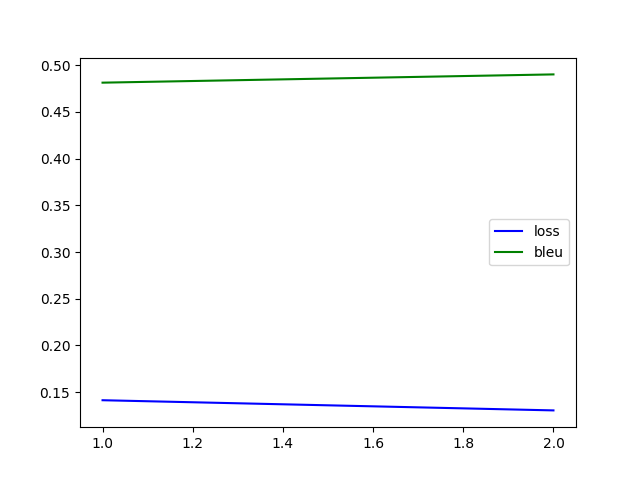
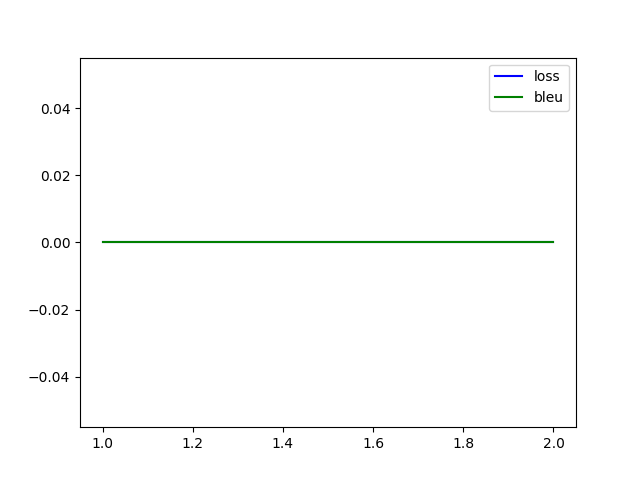
plot

diff --git a/hw2/2-1/util.py b/hw2/2-1/util.py
@@ -110,7 +110,7 @@ class Datamanager:
         encoder_optimizer.step()
         decoder_optimizer.step()
         return float(loss)/ (self.max_length)
-    def trainIters(self,encoder, decoder, name, test_name, n_epochs, write_file , learning_rate=0.001, print_every=2):
+    def trainIters(self,encoder, decoder, name, test_name, n_epochs, write_file, plot_file, learning_rate=0.001, print_every=2):
         encoder_optimizer = optim.Adam(encoder.parameters(), lr=learning_rate)
         decoder_optimizer = optim.Adam(decoder.parameters(), lr=learning_rate)
         
@@ -151,7 +151,7 @@ class Datamanager:
             #record=self.evaluate(encoder,decoder,test_name, write_file, record, n=5)
             self.evaluate(encoder,decoder,test_name, write_file, record, n=5)
             loss_bleu_list.append([loss_total/ batch_index, bleu_average])
-        return loss_bleu_list
+            self.plot(loss_bleu_list, plot_file)
     def evaluate(self,encoder, decoder, name, write_file=None, record=0, n=5):
         encoder.eval()
         decoder.eval()
@@ -357,7 +357,7 @@ class Datamanager:
         return sum(p.numel() for p in model.parameters() if p.requires_grad)
     def plot(self, record, path):
         x=np.array(range(1,len(record)+1))
-        y=np.array(record)
+        y=np.array(record,dtype=np.uint8)
         plt.figure()
         plt.plot(x,y[:,0],'b',label='loss')
         plt.plot(x,y[:,1],'g',label='bleu')

diff --git a/hw2/2-1/main.py b/hw2/2-1/main.py
@@ -3,14 +3,15 @@ from util import Datamanager, EncoderRNN, AttnDecoderRNN
 import torch
 assert torch and EncoderRNN and AttnDecoderRNN
 
-EPOCHS=2
-BATCH_SIZE= 512
-HIDDEN_LAYER= 128
-LAYER_N=1
-HOP_N=1
+EPOCHS=50
+BATCH_SIZE= 128
+HIDDEN_LAYER= 1024
+LAYER_N=3
+HOP_N=3
 DROPOUT=0.5
 MIN_COUNT = 3
-OUTPUT_PATH = './record.png'
+PRINT_OUTPUT_PATH = './record.png'
+WRITE_OUTPUT_PATH = './data/output.txt'
 
 
 dm = Datamanager(MIN_COUNT)
@@ -24,8 +25,7 @@ print("Decoder Parameter: {}".format(dm.count_parameters(decoder)))
 #torch.save(encoder,'encoder.pt')
 #torch.save(decoder,'decoder.pt')
 
-record=dm.trainIters(encoder, decoder, 'train', 'test', EPOCHS, 'data/output.txt')
+dm.trainIters(encoder, decoder, 'train', 'test', EPOCHS, WRITE_OUTPUT_PATH, PRINT_OUTPUT_PATH)
 torch.save(encoder,'encoder.pt')
 torch.save(decoder,'decoder.pt')
-dm.plot(record,OUTPUT_PATH)
 
